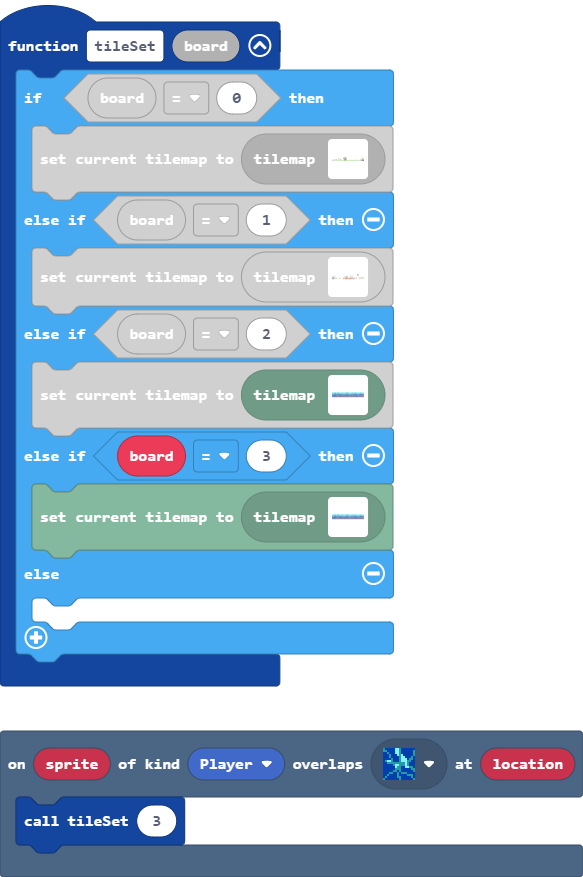
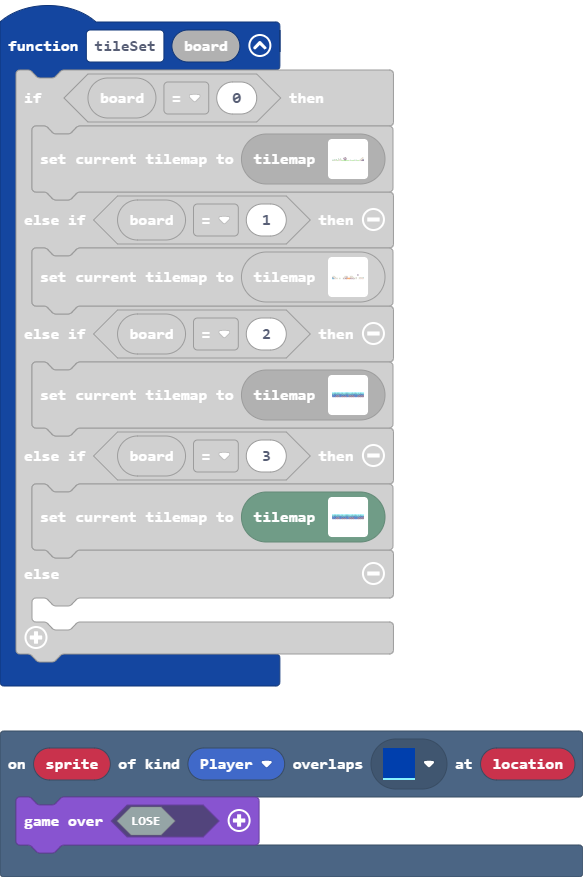
Update main.blocks, main.ts, tilemap.g.jres, tilemap.g.ts

Changed region(s): [[0.0, 0.0616, 0.6792, 0.7697], [0.0, 0.8928, 0.4631, 0.9852], [0.6484, 0.862, 0.7101, 0.8928]]

diff --git a/main.ts b/main.ts
@@ -39,7 +39,7 @@ function tileSet (board: number) {
             22...2222222..222222222...2222222222...22222222222
             `, [myTiles.transparency16,myTiles.tile2,myTiles.tile3,myTiles.tile4,myTiles.tile5,myTiles.tile6,sprites.builtin.oceanSand8,sprites.dungeon.darkGroundCenter,myTiles.tile7,myTiles.tile11], TileScale.Sixteen)))
     } else if (board == 3) {
-        tiles.loadMap(tiles.createMap(tiles.createTilemap(hex`3200080001010101010101010101010101010101010101010101010101010101010101010101010101010101010101010101010101010201010202020201020202020101010202010101010202020202010101010102020101020202010101020101020201010101050202050505050205050505020202050502020202050505050505020202020505020205050505020205020205050202020203050503030303050503050303030305050505050505030303050505050503050503030303050305050505030303030303050403050404040403030403040404040303030303030304040403030303030403030404040403040303030304040404040403040403040404040606060606040404040404040404040404040406060606060606060404040404040406060606060606060604040404040406080807070704040406060606060606060404040707070807080807060404040404060808080707080807070906040404060707070808070404070707070707070707040404070708070808080807060404040607070807080807070807`, img`
[1 lines of base64/hex data omitted]
             ..................................................
             ..................................................
             ..................................................
@@ -47,8 +47,8 @@ function tileSet (board: number) {
             ..................................................
             .......22222..............22222222.......222222222
             ......222222...22222222...222222222.....2222222222
-            22...2222222..222222222...2222222222...22222222222
-            `, [myTiles.transparency16,myTiles.tile2,myTiles.tile3,myTiles.tile4,myTiles.tile5,myTiles.tile6,sprites.builtin.oceanSand8,sprites.dungeon.darkGroundCenter,myTiles.tile7,myTiles.tile11], TileScale.Sixteen)))
+            22...2222222..222222222...222222222.....2222222222
+            `, [myTiles.transparency16,myTiles.tile2,myTiles.tile3,myTiles.tile4,myTiles.tile5,myTiles.tile6,sprites.builtin.oceanSand8,sprites.dungeon.darkGroundCenter,myTiles.tile7,myTiles.tile11,myTiles.tile9,myTiles.tile10], TileScale.Sixteen)))
     } else {
     	
     }
@@ -187,6 +187,9 @@ function initStart () {
         7777777777777777777777777777777777777777777777777777777777777777777777777777777777777777777777777777777777777777777777777777777777777777777777777777777777777777
         `)
 }
+scene.onOverlapTile(SpriteKind.Player, myTiles.tile10, function (sprite, location) {
+    game.over(false)
+})
 scene.onOverlapTile(SpriteKind.Player, myTiles.tile1, function (sprite, location) {
     tileSet(2)
 })

diff --git a/tilemap.g.ts b/tilemap.g.ts
@@ -22,6 +22,8 @@ namespace myTiles {
     export const tile9 = image.ofBuffer(hex``);
     //% fixedInstance jres blockIdentity=images._tile
     export const tile11 = image.ofBuffer(hex``);
+    //% fixedInstance jres blockIdentity=images._tile
+    export const tile10 = image.ofBuffer(hex``);
 
 }
 // Auto-generated code. Do not edit.
